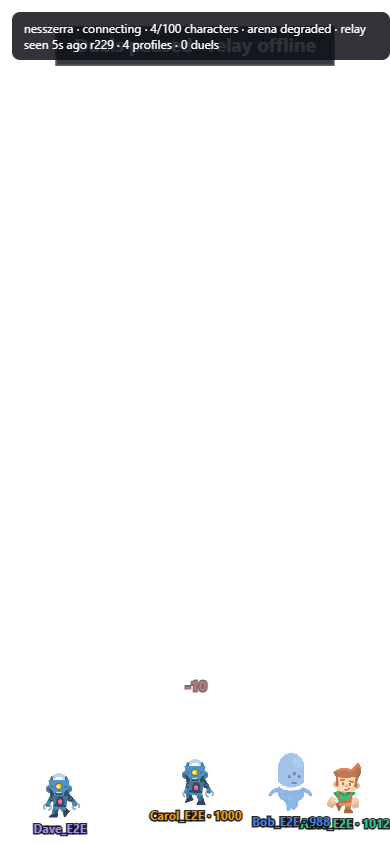
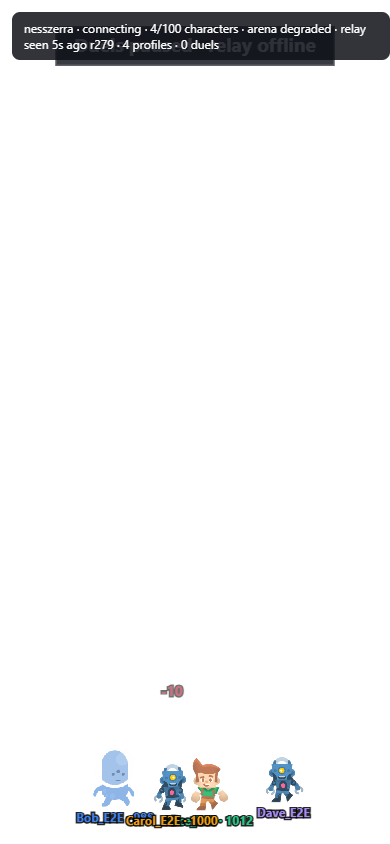
Overlay: separate concurrent duel spots, refetch catalog for new uploads; record OBS run

Changed region(s): [[0.0615, 0.8626, 1.0, 1.0], [0.4, 0.8009, 0.5538, 0.8318], [0.2462, 0.0308, 0.2769, 0.0616]]

diff --git a/public/overlay.js b/public/overlay.js
@@ -55,6 +55,7 @@ async function start() {
   let arenaRelay = null, arenaTransport = arenaDemo ? 'demo' : 'connecting', arenaConfig = { maxHp: 100 };
   let arenaRevision = null, arenaDuels = [], arenaClient = null, arenaTimer = null, arenaPaused = false;
   let announcement = null, lastCatalogFetch = 0;
+  const missingAvatars = new Set();
   let lastFrame = performance.now(), lastCleanup = 0;
   const particles = [];
   function updateStatus(detail = '') {
@@ -182,7 +183,8 @@ async function start() {
     p.color = sanitizeColor(profile.color) || p.chatColor || p.color;
     const avatar = typeof profile.avatar === 'string' ? profile.avatar.toLowerCase() : '';
     if (sprites.has(avatar)) p.renderAvatar = avatar;
-    else if (avatar && !arenaDemo && Date.now() - lastCatalogFetch > 30_000) void loadArenaCatalog().then(() => { for (const q of players.values()) applyArenaProfile(q); });
+    // A newly seen id (fresh upload) refetches at once; ids that stay unknown retry at most every 30 s.
+    else if (avatar && !arenaDemo && (!missingAvatars.has(avatar) || Date.now() - lastCatalogFetch > 30_000) && missingAvatars.add(avatar)) void loadArenaCatalog().then(() => { for (const q of players.values()) applyArenaProfile(q); });
     p.defaultAbility = String(profile.defaultAbility || '').slice(0, 20);
   }
   function acceptArenaSnapshot(snapshot, metadata = {}) {
@@ -438,6 +440,21 @@ async function start() {
     if (moving) return { frame: pick(a.walk || sprite.frames) };
     return { frame: pick(a.idle || sprite.frames) };
   }
+  // Up to 5 duels run at once: keep each duel's meeting point a full slot away from the others so
+  // health bars and nameplates never overlap. Searches outward from the midpoint, nearest free spot wins.
+  function freeMeetX(mid, gap) {
+    const slot = gap * 2 + size, lo = gap, hi = Math.max(gap, width - gap);
+    const taken = [...meetPoints.values()].map(m => m.x);
+    const clamp = x => Math.max(lo, Math.min(hi, x));
+    let best = clamp(mid), bestClearance = -1;
+    for (let step = 0; step <= Math.ceil(width / slot) * 2; step++) {
+      const x = clamp(mid + (step % 2 ? 1 : -1) * Math.ceil(step / 2) * slot / 2);
+      const clearance = taken.length ? Math.min(...taken.map(t => Math.abs(t - x))) : Infinity;
+      if (clearance >= slot) return x;
+      if (clearance > bestClearance) { best = x; bestClearance = clearance; }
+    }
+    return best;
+  }
   function draw(now) {
     const dt = Math.min(0.05, Math.max(0, (now - lastFrame) / 1000)); lastFrame = now;
     const clock = Date.now();
@@ -457,7 +474,7 @@ async function start() {
         let meet = meetPoints.get(duel.id);
         if (!meet) {
           const a = findPlayer(duel.a) || p, b = findPlayer(duel.b) || opponent;
-          meet = { x: Math.max(gap, Math.min(width - gap, (a.x + b.x) / 2)), aLeft: a.x <= b.x };
+          meet = { x: freeMeetX((a.x + b.x) / 2, gap), aLeft: a.x <= b.x };
           meetPoints.set(duel.id, meet);
         }
         const isA = String(duel.a) === p.userId;

diff --git a/VALIDATION_V2.md b/VALIDATION_V2.md
@@ -166,3 +166,34 @@ a GitHub repo, Cloudflare API secrets, OBS, or a second enabled channel.
   - npm scripts `test:all`, `test:ui`, `test:dev-ui`, `test:upload`, `test:e2e` and `seed:local`
 - Line endings were normalised back to LF in `server/auth.js`, `tests/dev-api.test.mjs` and
   `tests/upload-workerd.mjs`.
+
+## Local OBS run (2026-10-01)
+
+OBS Studio scene "Mini Chat — v2 Local", with a browser source on `http://127.0.0.1:5210/overlay.html?channel=nesszerra&arena=1&size=96`. It ran against a local `cf dev` with 10 seeded test viewers and a simulated relay. Driver: `work/obs-v2-run.mjs` (outside the repo). Nothing was streamed, recorded or deployed.
+
+24 of 24 checks passed:
+- The default balance preset is in effect.
+- Single-PNG upload works.
+  - Non-PNG files get 415.
+  - Oversize frames get 400.
+  - Viewers get 403.
+- 10 profiles were saved.
+- Duels are paused without a relay; one-time pairing works.
+- 10 characters appear after their first chat message, including the uploaded one.
+- A viewer can only be in one duel (player_busy).
+- 5 duels can run at once.
+- Cooldowns work, and heal is used.
+- All 5 duels completed.
+  - The losers are knocked out and respawn.
+  - Elo ended at 1012/988.
+  - The rematch delay applies.
+- When the relay drops, duels pause and cancel without scoring.
+- The relay reconnects with its stored credential.
+- Mods can turn duels off and on.
+- State survives an overlay reload.
+
+Fixed after looking at the OBS captures:
+- With 5 duels at once, duelists piled into two clumps and their HP bars overlapped. Each duel now gets its own spot (`freeMeetX` in `public/overlay.js`).
+- An uploaded character showed as a stock sprite for up to 30 s. The overlay now refetches the catalog as soon as it sees a new avatar ID.
+
+After these fixes, `npm run test:all` passes all 8 stages.
